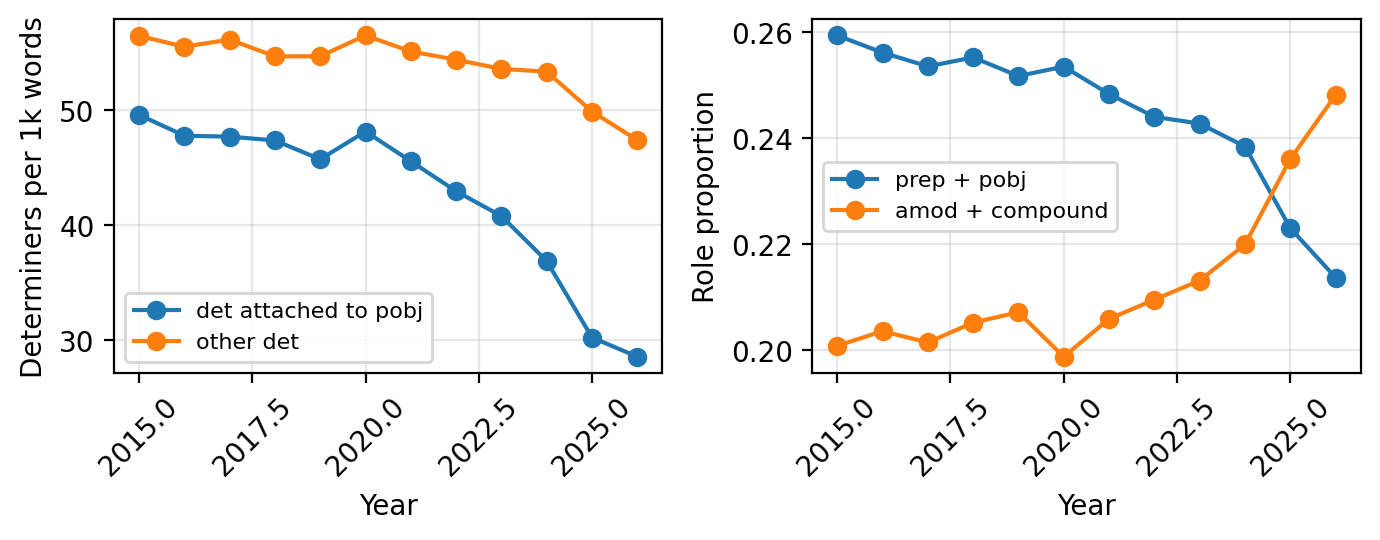
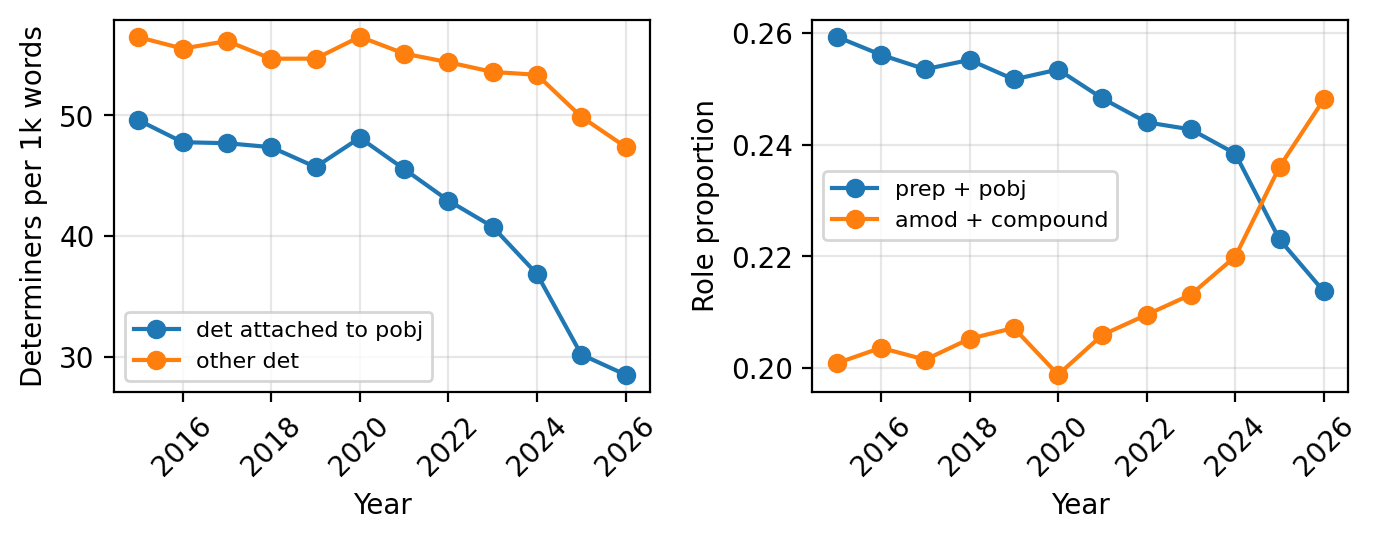
fix x ticks in additional dep analysis plots

Changed region(s): [[0.0, 0.0296, 0.9985, 0.8889], [0.7489, 0.9185, 0.8113, 0.9778], [0.2496, 0.9185, 0.312, 0.9481]]

diff --git a/src/not_an_llm/pipelines/additional_analysis.py b/src/not_an_llm/pipelines/additional_analysis.py
@@ -5,6 +5,7 @@ import logging
 from pathlib import Path
 
 import matplotlib.pyplot as plt
+from matplotlib.ticker import MaxNLocator, StrMethodFormatter
 import pandas as pd
 import spacy
 
@@ -236,6 +237,8 @@ def _save_determiner_decomposition_plot(yearly: pd.DataFrame, output_path: Path)
     axes[1].legend(fontsize=8)
 
     for ax in axes:
+        ax.xaxis.set_major_locator(MaxNLocator(integer=True))
+        ax.xaxis.set_major_formatter(StrMethodFormatter("{x:.0f}"))
         ax.tick_params(axis="x", rotation=45)
 
     output_path.parent.mkdir(parents=True, exist_ok=True)
